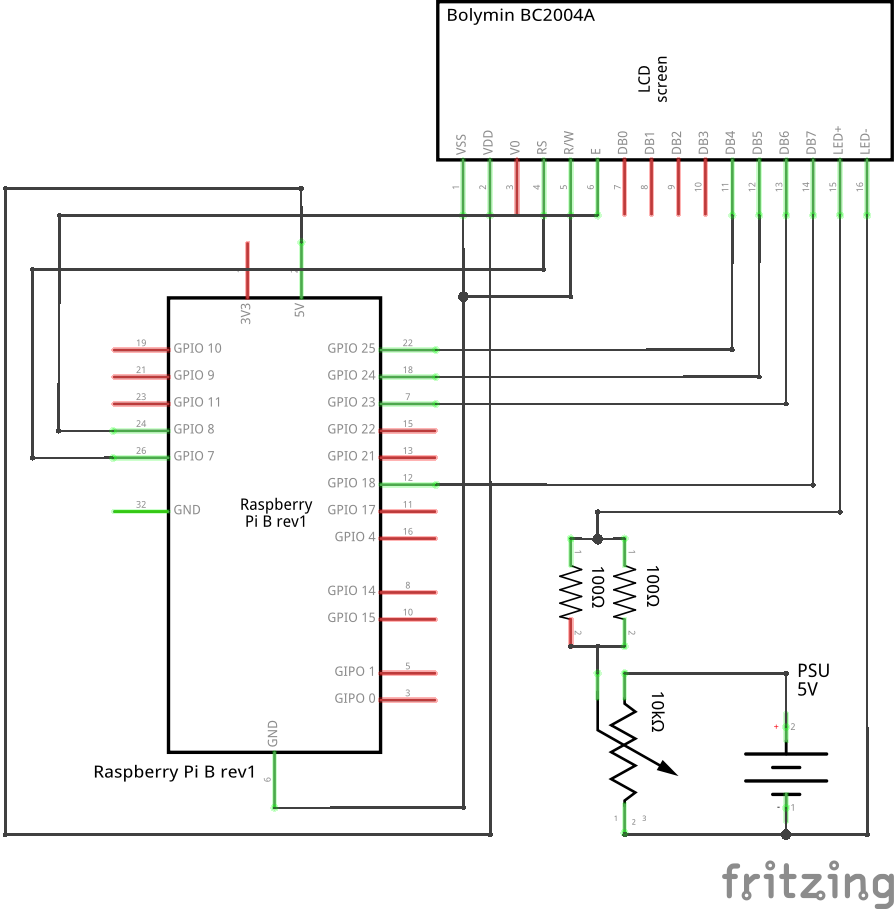
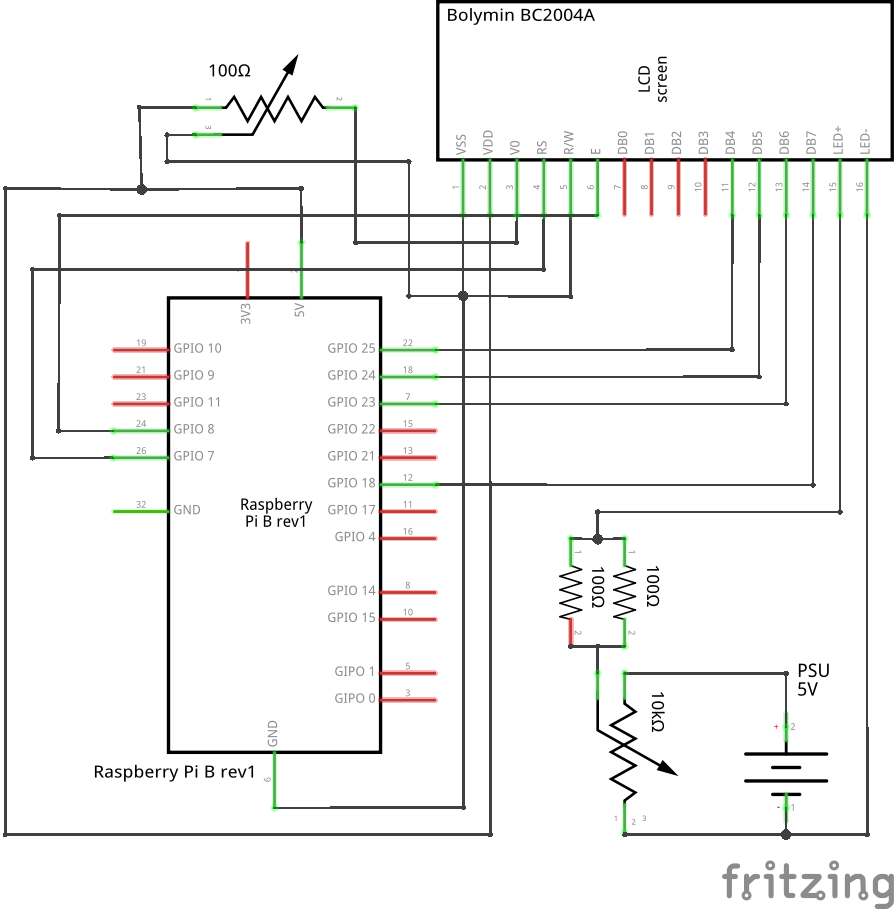
Doc and Design update.

diff --git a/docs/documentation/eulenfunk-doc.md b/docs/documentation/eulenfunk-doc.md
@@ -8,8 +8,9 @@ include-headers:
     - \usepackage[babel, german=quotes]{csquotes}
 fontsize: 11pt
 sections: yes
+rights:  Creative Commons Non-Commercial Share Alike 3.0
 toc: yes
-lof: no
+lof: yes
 lot: no
 date: \today
 ---
@@ -158,8 +159,8 @@ noch erworben werden:
 * WIFI--Adapter (vorhanden)
 * Netzteil (vorhanden, div. 5V)
 * Audioverstärker (muss erworben werden)
-* Drehregler (muss erworben werden)
-* Farbe und Kunststoffabdeckung für das neue Gehäuse (muss erworben werden)
+* Drehimpulsregler (muss erworben werden)
+* Farbe (Lack), Kunststoffabdeckung und Drehknöpfe für das Gehäuse (muss erworben werden)
 
 [^AEG]: AEG Küchenradio 4104: \url{https://www.amazon.de/AEG-MR-4104-Desgin-Uhrenradio-buche/dp/B000HD19W8}
 
@@ -215,7 +216,7 @@ Abbildung \ref{gpio}[^SRC] zeigt die GPIO--Header des *Raspberry Pi* Modell B Re
 Die GPIO--Pins des *Raspberry Pi* haben eine Logikspannung von 3.3V und sind pro
 GPIO--Pin mit max. 16mA belastbar. Der der gesamte GPIO--Header sollte mit nicht
 mehr als 50mA belastet werden, da es darüber hinaus zu Hardwareschäden kommen
-kann (siehe auch @gay2014raspberry).
+kann (siehe auch [@gay2014raspberry]).
 
 Die Ansteuerung Ansteuerung von LED über GPIO erfolgt binär. Das heisst, dass
 die LED entweder aus (GPIO low) oder an sein kann (GPIO high).
@@ -224,8 +225,8 @@ TODO: ELCH?
 In der ,,analogen'' Welt ist es jedoch möglich eine LED über das Senken der
 Spannung zu dimmen. Um ein Dimmen in der digitalen Welt zu erreichen wird ein
 Modulationsverfahren angwandt, welches Pulsweitenmodulation heisst. Hierbei
-wird...elch? Weitere Informationen finden sich auch unter @richardson2014make
-@gay2014raspberry und @gay2014mastering. Software PWM in @gay2014experimenting.
+wird...elch? Weitere Informationen finden sich auch unter [@richardson2014make]
+[@gay2014raspberry] und [@gay2014mastering]. Software PWM in [@gay2014experimenting].
 Hier beispielsweise 6% CPU--Last pro GPIO--Pin. 
 
 ## LCD--Anzeige
@@ -259,7 +260,7 @@ lediglich nur zwei.
 Da für den seriellen Betrieb beispielsweise über den I2C--Bus zusätzliche
 Hardware benötigt wird, wird die parallele Ansteuerung über die GPIO--Pins
 bevorzugt. Für weitere Informationen zum seriellen Betrieb über I2C siehe auch
-@horan2013practical.
+[@horan2013practical].
 
 \begin{figure}[h!]
   \centering
@@ -308,7 +309,7 @@ eine) und einen Anschluss für den Schalter. Beim drehen eines Drehimpulsgebers
 wird ein Rechtecksignal generiert. Je nach Muster der beiden Datensignale A oder
 B, kann entschieden werden ob es sich um eine Rechts-- oder Linksdrehung
 handelt. Weitere Hintergrundinformationen zu Drehimpulsgeber siehe auch
-@2014projekte.
+[@2014projekte].
 
 Abbildung \ref{alps} zeigt den Anschluss des Drehimpulsgebers am *Raspberry Pi*. 
 
@@ -316,8 +317,9 @@ Abbildung \ref{alps} zeigt den Anschluss des Drehimpulsgebers am *Raspberry Pi*.
 
 \begin{figure}[h!]
   \centering
-\includegraphics[width=0.5\textwidth]{images/rotary.png}
-  \caption{Drehimpulsgeber--Anschluss an den Raspberry Pi}
+\includegraphics[width=0.6\textwidth]{images/rotary.png}
+  \caption{Drehimpulsgeber--Anschluss an den Raspberry Pi, Abbildung zeigt
+  Kombination aus Potentiometer und Schalter.}
   \label{alps}
 \end{figure}
 
@@ -341,6 +343,26 @@ Anschluss von externen Lautsprechern auch eine Lautstärkeregelung über ein Pot
 erfolgen soll, ist die Entscheidung einfachheitshalber auf ein
 Audioverstärker--Modul auf Basis vom PAM8403[^POW] Stereo-Verstärker mit Potentiometer gefallen.
 
+Das Audioverstärker--Module hat folgende Anschlusspins:
+
+* Left--In, Right--In, GND
+* 5V+ und GND (Betriebsspannung)
+* Left--Side--Out (+), Left--Side--Out (-)
+* Right--Side--Out (+), Right--Side--Out (-)
+
+Laut diverser Onlinequellen[^MONO], dürfen die Ausgänge für einen Mono--Betrieb
+eines auf dem PAM8403--basierten Verstärkers nicht paralell geschaltet werden.
+Aus diesem Grund kommt ein ein 4--poliger
+*EIN--EIN--Kippschalter*[^KIPPSCHALTER] zum Einsatz. So kann zwischen dem
+interen Lautsprecher (Mono--Betrieb) und den externen Stereo
+Lautsprecher--Anschlüssen sauber per Hardware hin und her geschaltet werden.
+
+Damit beim Mono--Betrieb nicht nur ein Channal verwendet wird, ermöglicht
+*Eulenfunk* das umschalten zwischen Mono-- und Stereo--Betrieb in Software.
+
+[^MONO]: PAM8403 Mono--Betrieb: http://electronics.stackexchange.com/questions/95743/can-you-bridge-or-parallel-the-outputs-of-the-pam8403-amplifier
+
+[^KIPPSCHALTER]: Kippschalter 4--polig EIN--EIN: \url{http://www.reichelt.de/Kippschalter/MS-500P/3/index.html?&ACTION=3&LA=2&ARTICLE=13172&GROUPID=3275&artnr=MS+500P}
 [^POW]: Verstärkermodul: \url{https://www.amazon.de/5V-Audioverstärker-Digitalendstufenmodul-Zweikanalige-Stereo-Verstärker-Potentiometer/dp/B01ELT81A6}
 
 ## LED--Transistorschaltung
@@ -386,7 +408,7 @@ max. Strom von 16 mA beziehen
 In *Eulenfunk* sollen mehrere intensiv leuchtende LEDs verbaut werden. Da die
 GPIO--Pins in ihrer Leistung sehr begrenzt ist, würde es sich anbeiten eine
 externe Stromquelle zu verwenden. Um die Speisung über eine externe Stromquelle
-zu ermöglichen kann eine Transistorschaltung verwendet werden (vgl. @traled). 
+zu ermöglichen kann eine Transistorschaltung verwendet werden (vgl. [@traled]). 
 
 Für die Transistorschaltung wurden vom Herrn Schäferling NPN (BC547C) und PNP
 (BC557C) bereitgestellt. Für den ersten Testaufbau wurde der PNP--Transistor und
@@ -429,7 +451,7 @@ $$R_{Basis} = \frac{U_{GPIO} - U_{Basis}}{I_{Basis}} = \frac{3,3V - 0,7V}{270\mu
 
 \begin{figure}[h!]
   \centering
-\includegraphics[width=0.7\textwidth]{images/transistorled.png}
+\includegraphics[width=0.9\textwidth]{images/transistorled.png}
   \caption{Transistor--RGB--LED Schaltung}
   \label{transled}
 \end{figure}
@@ -457,27 +479,40 @@ Verhalten wurde bemerkt, also der *Raspberry Pi* ohne Power--Connector alleine
 mit nur der USB--Verbindung zum Hub bootete.
 
 Da bei der Speisung über die USB--Schnittstelle die interne Sicherungschaltung
-des *Pi* umgangen werden, besteht hier die zusätzliche Gefahr eines
+des *Pi* umgangen wird, besteht hier die zusätzliche Gefahr eines
 Hardwaredefektes durch die Speisung einer zusätzlichen Spannungsquelle. Weitere
-Informationen zu dem Problem finden sich unter @suehle2014hacks.
+Informationen zu dem Problem finden sich unter [@suehle2014hacks].
 
 
 ## Gehäuse
 
-Die Gehäuse--Farbe soll in hellelfenbeinweiß RAL 1015 einen dezenten
-,,Retro''--Look verschaffen.
-Plexiglas von Wolfgang
-Holzgehäuse des alten AEG Radios
-Knöpfe schwarz mit Alu-Optik
+Abbildung \ref{ral} zeigt ein Muster der Gehäusefront--Farbe hellelfenbeinweiß RAL
+1015. Dieser Farbton wird für die Front verwendet um *Eulenfunk* einen dezenten
+,,Retro''--Look verpassen.
 
-### Platz im Gehäuse gering
+\begin{figure}[h!]
+  \centering
+  \includegraphics[width=0.3\textwidth]{images/ral_soft.png}
+  \caption{Muster RAL1015, hellelfenbeinweiß}
+  \label{ral}
+\end{figure}
 
-...
+Das Plexiglas für die Front wurde von der Firma *ira-Kunststoffe* in
+Schwarzenbach/Saale zugeschnitten. In der Plexiglasfront wurden mit Hilfe vom
+Herrn Schäferling zwei 5mm Löcher (Drehimpulsgeber, Lautstärkeregler--Poti)
+gebohrt. Anschließend wurde die Plexiglas--Front von der Innenseite
+lackiert[^LACK], hierbei wurden die Flächen für LCD und die drei LEDs
+abgeklebt. Desweiteren werden schwarze Knöpfe in Alu--Optik mit 
+$\diameter$ 30mm  für den Lautstärkeregler und
+den Drehimpulsgeber verwendet.
+
+[^LACK]: Buntlack, hellelfenbein: \url{http://www.obi.de/decom/product/OBI_Buntlack_Spray_Hellelfenbein_hochglaenzend_150_ml/3468725}
+
 
 ## Betriebssystem
 
 Mittlerweile gibt es für den *Raspberry Pi* viele offiziell zugeschnittene
-Betriebssysteme[^OS] (vgl. @dembowski2013raspberry). Bei den den Linux
+Betriebssysteme[^OS] (vgl. [@dembowski2013raspberry]). Bei den den Linux
 Distributionen ist *Raspbian* eine der bekanntesten Distribution -- welche auf
 *Debian* basiert. *Raspbian* bringt ein komplettes Linux--basiertes System mit
 grafischer Benutzeroberfläche mit sich. 
@@ -493,9 +528,9 @@ diese alle Vorteile von Freier Software zu nichte machen würde.
 
 ### Wahl des Betriebbsystems
 
-*Arch Linux ARM* ist eine minimalistische und sehr performante
+*Arch Linux ARM*[^ARCH] ist eine minimalistische und sehr performante
 Linux--Distribution welche im Gegensatz zu *Raspbian* ohne Desktopumgebung
-geliefert wird (vgl. @schmidt2014raspberry) Desweiteren ist *Arch Linux* ein
+geliefert wird (vgl. [@schmidt2014raspberry]) Desweiteren ist *Arch Linux* ein
 bekannter Vertreter von Rolling--Release--Distributionen. Ein weiterer Vorteil
 für unseren Einsatzzweck hier ist bei *Arch Linux* das *AUR* (Arch User
 Repository)[^AUR], dieses erlaubt es eigene Software auf eine schnelle und
@@ -503,7 +538,7 @@ unkomplizierte Weise der Allgemeinheit zur Verfügung zu stellen.
 
 ### Einrichtung des Grundsystems
 
-Nach der Installation und dem ersten Booten des Grundsystems muss die
+Nach der Installation[^INSTALL] und dem ersten Booten des Grundsystems muss die
 Netzwerk--Schnittstelle konfiguriert werden. Arch Linux ARM bietet mit *netctl*
 ein profilbasierte Konfigurationsmöglichkeit. Ein Profil kann über das
 *ncurses*--basierte Tool `wifi-menu` erstellt werden. In unserem Fall wurde das
@@ -513,7 +548,7 @@ Profil `wlan0-Phobos` erstellt. Anschließend kann das erstellte Profil mit
 **Auflistung der bekannten Profile**
 
 ```bash
-    [alarm@eulenfunk ~]$ netctl list
+    [wald@eulenfunk ~]$ netctl list
       eth0-static
       wlan0-Phobos
 ```
@@ -522,14 +557,14 @@ Profil `wlan0-Phobos` erstellt. Anschließend kann das erstellte Profil mit
 
 ```bash
     # Starten des gewünschten Profils
-    [alarm@eulenfunk ~]$ netctl start wlan0-Phobos
+    [wald@eulenfunk ~]$ netctl start wlan0-Phobos
 
-    [alarm@eulenfunk ~]$ netctl list
+    [wald@eulenfunk ~]$ netctl list
       eth0-static
     * wlan0-Phobos
 
     # Profil über System-Reboot hinweg aktivieren 
-    [alarm@eulenfunk ~]$ netctl enable wlan0-Phobos
+    [wald@eulenfunk ~]$ netctl enable wlan0-Phobos
 
 ```
 
@@ -583,7 +618,9 @@ Von Elchen kopiert.
 
 ## Ziel erreicht?
 
-Ja?
+Das selbstgesetzte Ziel --- mit möglichst wenig Aufwand ein Internetradio auf Basis
+eines *Raspberry Pi* zu entwickeln --- kann durchaus als erfolgreich betrachtet
+werden. 
 
 ## Erweiterungen und alternative Ansätze
 
@@ -596,11 +633,12 @@ live gestreamter Musik gut. Bei live gestreamter Musik könnte für die
 Visualisierung eine Fast--Fourier--Transformation in Echtzeit durchgeführt
 werden. Da jedoch die Ressourcen des *Raspberry Pi* sehr begrenzt sollte hier
 auf die Verwendung einer GPU--beschleunigte--FFT[^FFT] zurückgegriffen werden
-(vgl. @Sabarinath2015).
+(vgl. [@Sabarinath2015]).
 
 Ein alternativer Ansatz wäre auch die Realisierung einer Musik--Visualisierung
 mittels Hardwarekomponenten. Ein möglicher Ansatz aus hardwarebasierten
-Hochpass-- und Tiefpassfiltern in Form einer Disco--Beleuchtung wird unter @2014projekte beschrieben.
+Hochpass-- und Tiefpassfiltern in Form einer Disco--Beleuchtung wird unter
+[@2014projekte] beschrieben.
 
 ### Echtzeit--Uhr
 
@@ -609,7 +647,15 @@ sich bei *Eulenfunk* um eine Internet--Radio handelt wurde auf eine Echtzeituhr
 (real time clock, RTC) verzichtet, da sich die Uhr *Eulenfunk* aufgrund der
 permanenten Internetverbindung mittels NTP[^NTP] über das Internet
 synchronisieren kann. Eine Erweiterung um eine Echtzeituhr wird in
-@horan2013practical und @gay2014experimenting ausführlich beschreiben.
+[@horan2013practical] und [@gay2014experimenting] ausführlich beschreiben.
+
+
+### Fernbedienung
+
+Eine weitere Erweiterung wäre die integration einer Fernbedienung. Diese ließe
+sich relativ einfach mittels eine Infrarot--Sensors und beispielsweise der
+*lirc*--Library umsetzen. Weitere Informationen siehe auch
+[@kurniawanraspberry].
 
 [^NTP]: Network Time Protocol:
 \url{https://de.wikipedia.org/wiki/Network_Time_Protocol}
